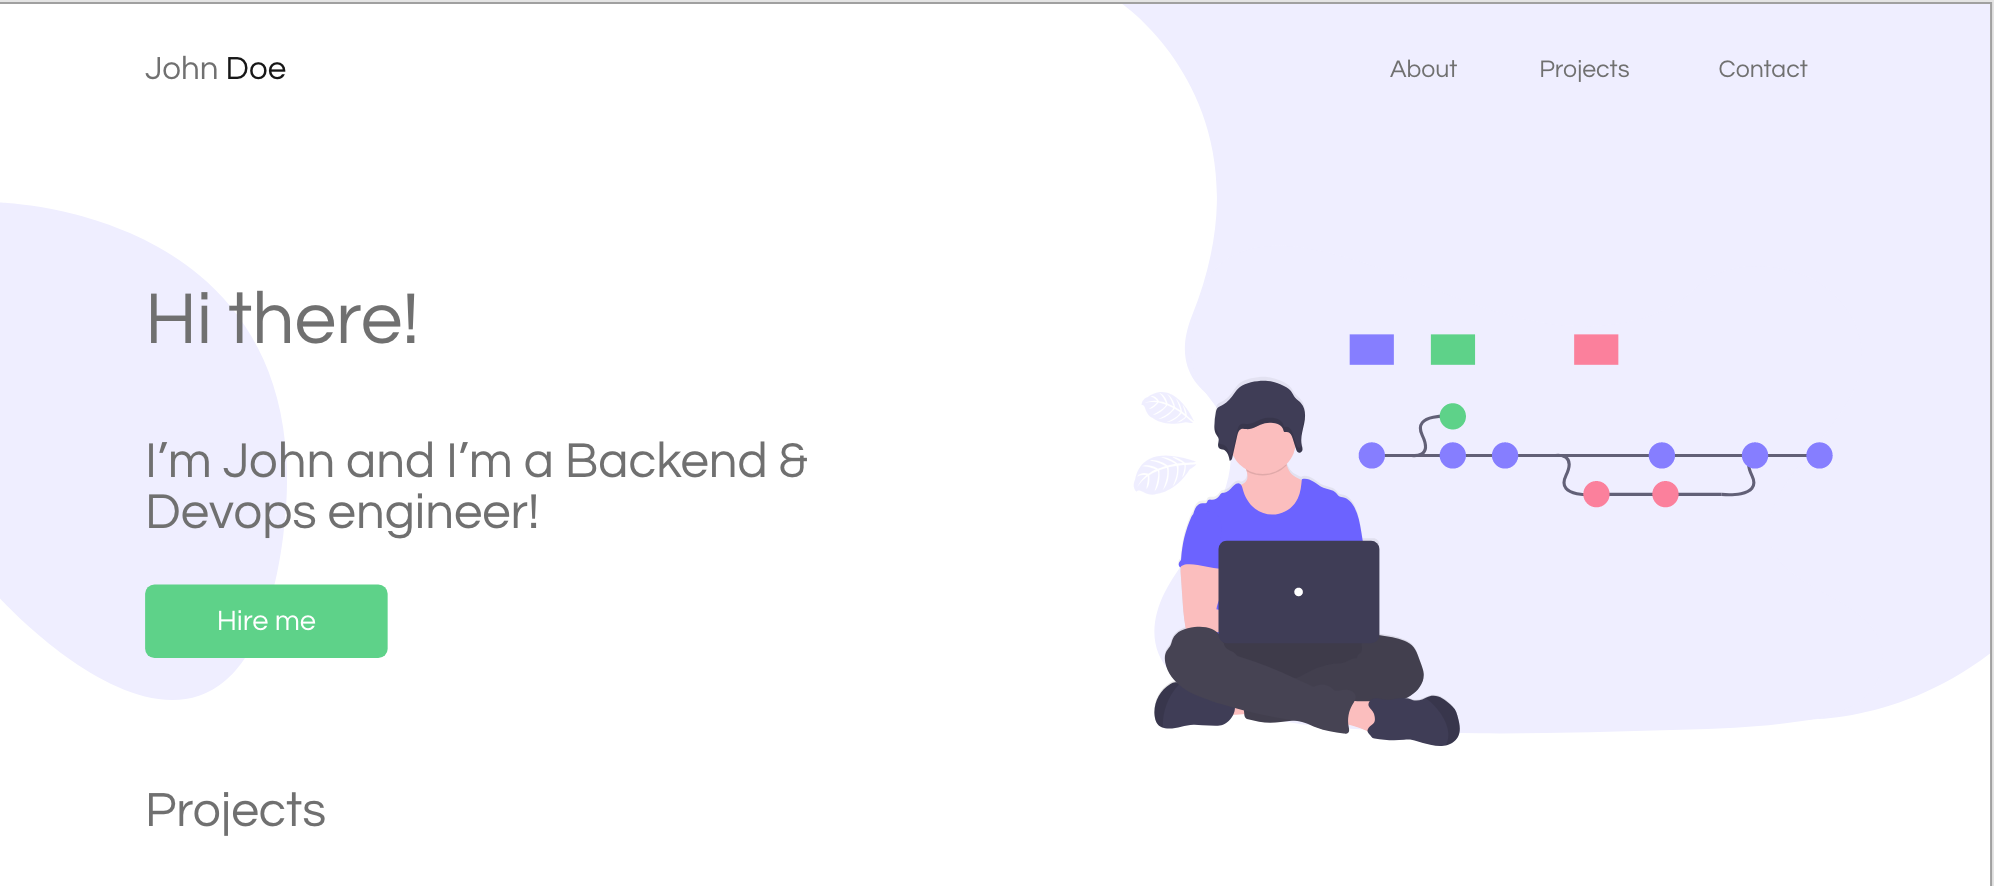
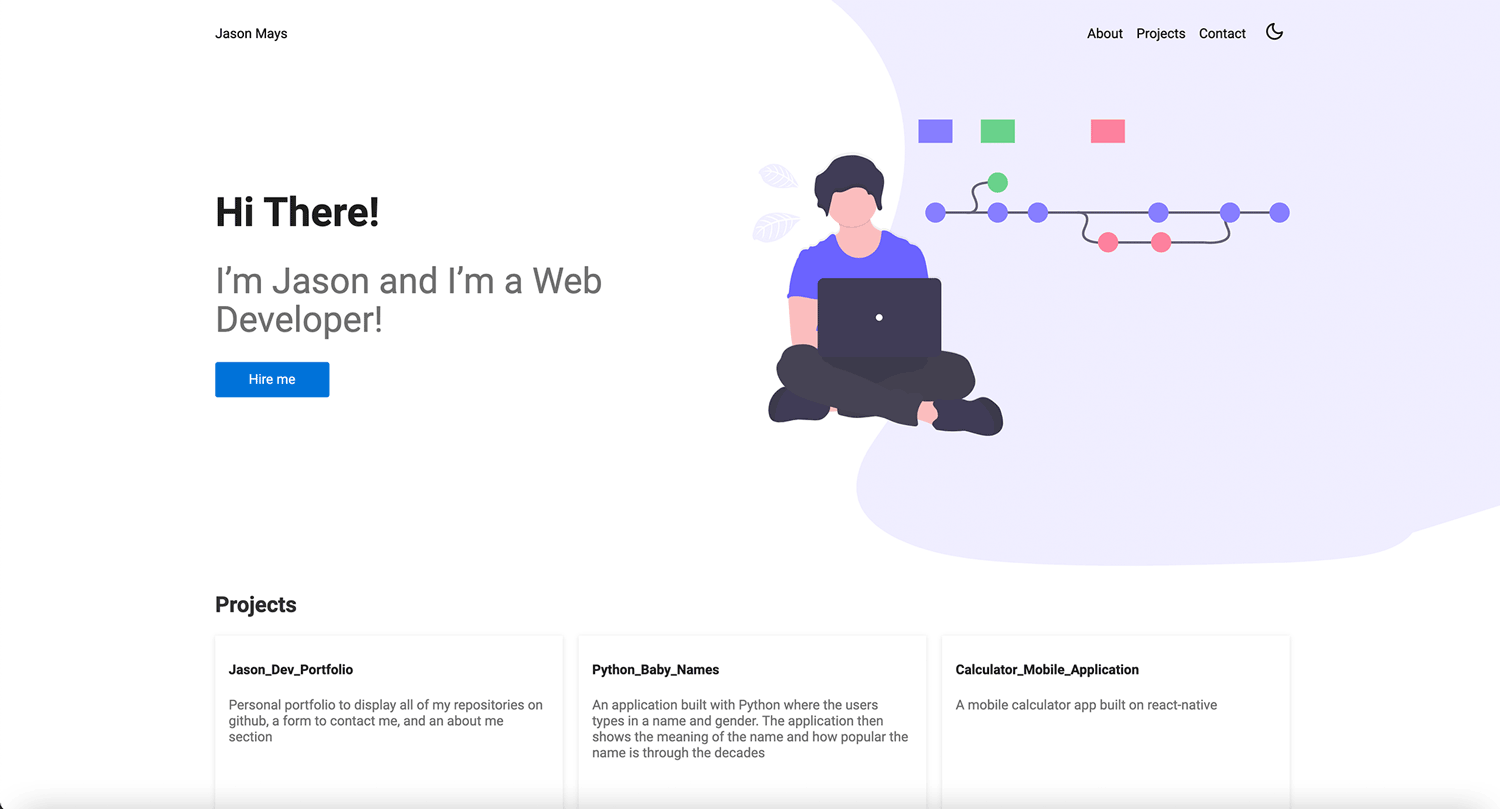
Updated Thumbnail and Text

diff --git a/src/components/landing/Skills/index.jsx b/src/components/landing/Skills/index.jsx
@@ -15,11 +15,11 @@ export const Skills = () => {
           <img src={dev} alt="I’m Jason and I’m a Web Developer!" />
         </Thumbnail>
         <Details theme={theme}>
-          <h1>About me</h1>
+          <h1>About Me</h1>
           <p>
-            Currently, Jason is a senior at Temple Univeristy majoring in Managemnet Information Systems. He has
-            extensive experience with HTML5, JavaScript, CSS, SCSS, React.js and Python. Jason is interested in software
-            development that helps make the world a better place.
+            Currently, I am a senior at Temple Univeristy majoring in Managemnet Information Systems. I have extensive
+            experience with HTML5, JavaScript, CSS, SCSS, React.js and Python. I am interested in software development
+            that helps make the world a better place.
           </p>
           <Button as={AnchorLink} href="#contact">
             Hire me

diff --git a/src/components/landing/Intro/index.jsx b/src/components/landing/Intro/index.jsx
@@ -15,7 +15,7 @@ export const Intro = () => {
       <IntroWrapper as={Container}>
         <Details theme={theme}>
           <h1>Hi There!</h1>
-          <h4>I’m Jason and I’m a Web Developer!</h4>
+          <h4>I’m a Web Developer!</h4>
           <Button as={AnchorLink} href="#contact">
             Hire me
           </Button>
